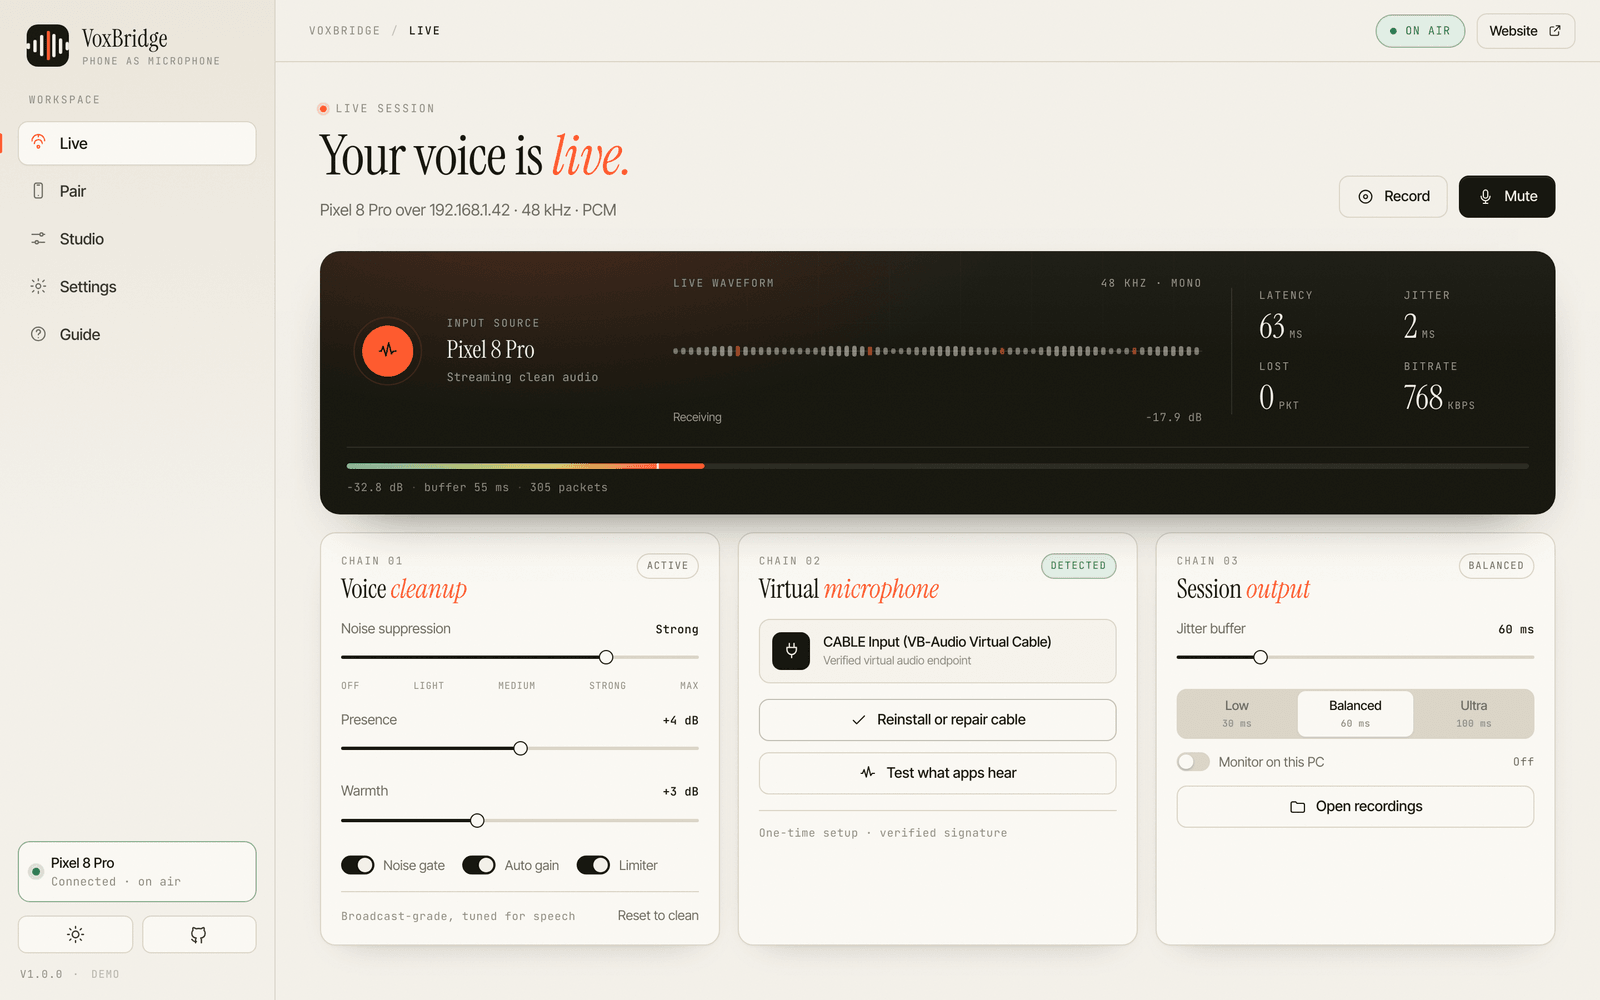
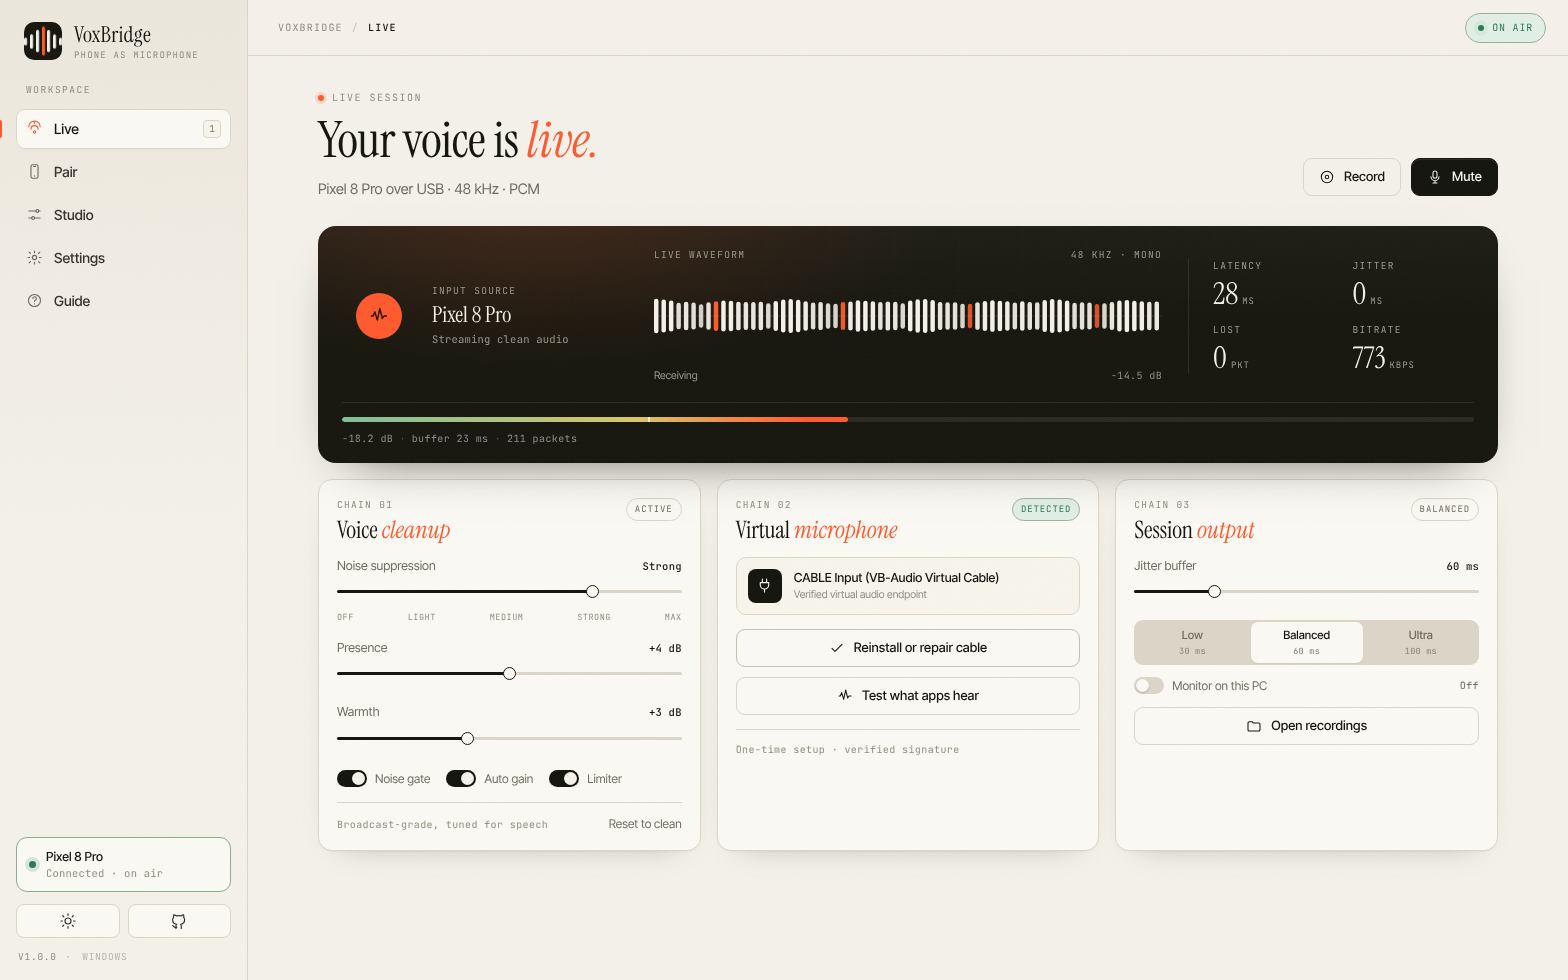
feat: ship verified virtual-microphone state in previews, refresh the marketing screenshots and point the desktop host at the live site

diff --git a/apps/desktop/standalone/server.js b/apps/desktop/standalone/server.js
@@ -18,7 +18,7 @@ const { WebSocketServer } = require('ws');
 
 const APP_VERSION = '1.0.0';
 const GITHUB_URL = 'https://github.com/sdlksdsf/Virtual-Mic';
-const SITE_URL = 'https://voxbridge.vercel.app';
+const SITE_URL = 'https://voxbridge-app-pi.vercel.app';
 const IS_WIN = process.platform === 'win32';
 const ROOT = path.resolve(__dirname, '..');
 const RENDERER = path.join(ROOT, 'src', 'renderer');
@@ -30,11 +30,41 @@ fs.mkdirSync(DATA_DIR, { recursive: true });
 
 const ALLOWED_HOSTS = new Set([
   'github.com',
-  'voxbridge.vercel.app',
+  'voxbridge-app-pi.vercel.app',
   'vb-audio.com',
   'www.vb-audio.com',
   'download.vb-audio.com',
 ]);
+
+// Documentation screenshots are captured on Linux, where the native service
+// cannot run. This flag makes the preview report the Windows service shape so
+// the captured interface matches what a Windows user actually sees.
+const PREVIEW_NATIVE = process.env.VOXBRIDGE_PREVIEW_NATIVE === '1';
+const PREVIEW_DEVICES = {
+  native: true,
+  render: [
+    { name: 'CABLE Input (VB-Audio Virtual Cable)', default: true },
+    { name: 'Headphones (WH-1000XM5)', default: false },
+    { name: 'Speakers (Realtek(R) Audio)', default: false },
+  ],
+  capture: [
+    { name: 'CABLE Output (VB-Audio Virtual Cable)', default: true },
+    { name: 'Microphone Array (Intel Smart Sound)', default: false },
+  ],
+};
+const PREVIEW_SERVICE = {
+  mode: 'native',
+  status: 'ready',
+  device: 'CABLE Input (VB-Audio Virtual Cable)',
+  fallback: false,
+  rate: 48000,
+  bufferMs: 20,
+  prefillMs: 60,
+  lastError: '',
+  restarts: 0,
+  version: APP_VERSION,
+  binary: 'C:\\Program Files\\VoxBridge\\VoxBridgeMic.exe',
+};
 
 const logs = [];
 const setupState = { phase: 'idle', progress: 0, message: '', publisher: '', error: '' };
@@ -307,7 +337,7 @@ function statePayload() {
     },
     settings: store.get(),
     receiver: receiver ? receiver.status() : { running: false, code: '----', port: 8720 },
-    service: service ? service.info() : { mode: 'software', status: 'idle' },
+    service: PREVIEW_NATIVE ? { ...PREVIEW_SERVICE } : service ? service.info() : { mode: 'software', status: 'idle' },
     recorder: recorder ? recorder.status() : { recording: false },
     setup: setupState,
   };
@@ -439,7 +469,7 @@ const METHODS = {
     stopService();
     return true;
   },
-  listDevices: () => (service ? service.listDevices() : { native: false, render: [], capture: [] }),
+  listDevices: () => (PREVIEW_NATIVE ? { ...PREVIEW_DEVICES } : service ? service.listDevices() : { native: false, render: [], capture: [] }),
   restartService: () => {
     stopService();
     return startService();

diff --git a/apps/desktop/src/renderer/app.js b/apps/desktop/src/renderer/app.js
@@ -348,7 +348,7 @@
         : 'Your voice is <em>live.</em>'
       : 'Waiting for your <em>phone.</em>';
     $('#live-lede').textContent = phone
-      ? `${phone.name} over ${phone.address || 'Wi-Fi'} · ${(state.receiver.rate || 48000) / 1000} kHz · ${state.receiver.codec === 'adpcm' ? 'ADPCM' : 'PCM'}`
+      ? `${phone.name} over ${/^(127\.|::1|localhost)/.test(phone.address || '') ? 'USB' : phone.address || 'Wi-Fi'} · ${(state.receiver.rate || 48000) / 1000} kHz · ${state.receiver.codec === 'adpcm' ? 'ADPCM' : 'PCM'}`
       : 'Open VoxBridge on your phone. It shows up here on its own, no cables, no drivers to fight.';
 
     $('#source-name').textContent = phone ? phone.name : 'Nothing connected';
@@ -409,7 +409,7 @@
     found.innerHTML = phone
       ? `<div class="found-item">
            <div class="found-icon"><svg><use href="#i-phone" /></svg></div>
-           <div class="found-copy"><strong>${escapeHtml(phone.name)}</strong><span>${escapeHtml(phone.address || 'LAN')} · ${escapeHtml(phone.device || 'phone')}</span></div>
+           <div class="found-copy"><strong>${escapeHtml(phone.name)}</strong><span>${escapeHtml(/^(127\.|::1|localhost)/.test(phone.address || '') ? 'USB link' : phone.address || 'LAN')} · ${escapeHtml(phone.device || 'phone')}</span></div>
            <span class="status-chip ok">Connected</span>
          </div>`
       : `<div class="found-item">

diff --git a/apps/desktop/src/renderer/mock.js b/apps/desktop/src/renderer/mock.js
@@ -250,6 +250,7 @@
           site: 'https://voxbridge.vercel.app',
         },
         settings,
+        devices: { ...devices },
         receiver: { ...receiver },
         service: { ...service },
         recorder: { ...recorder },
